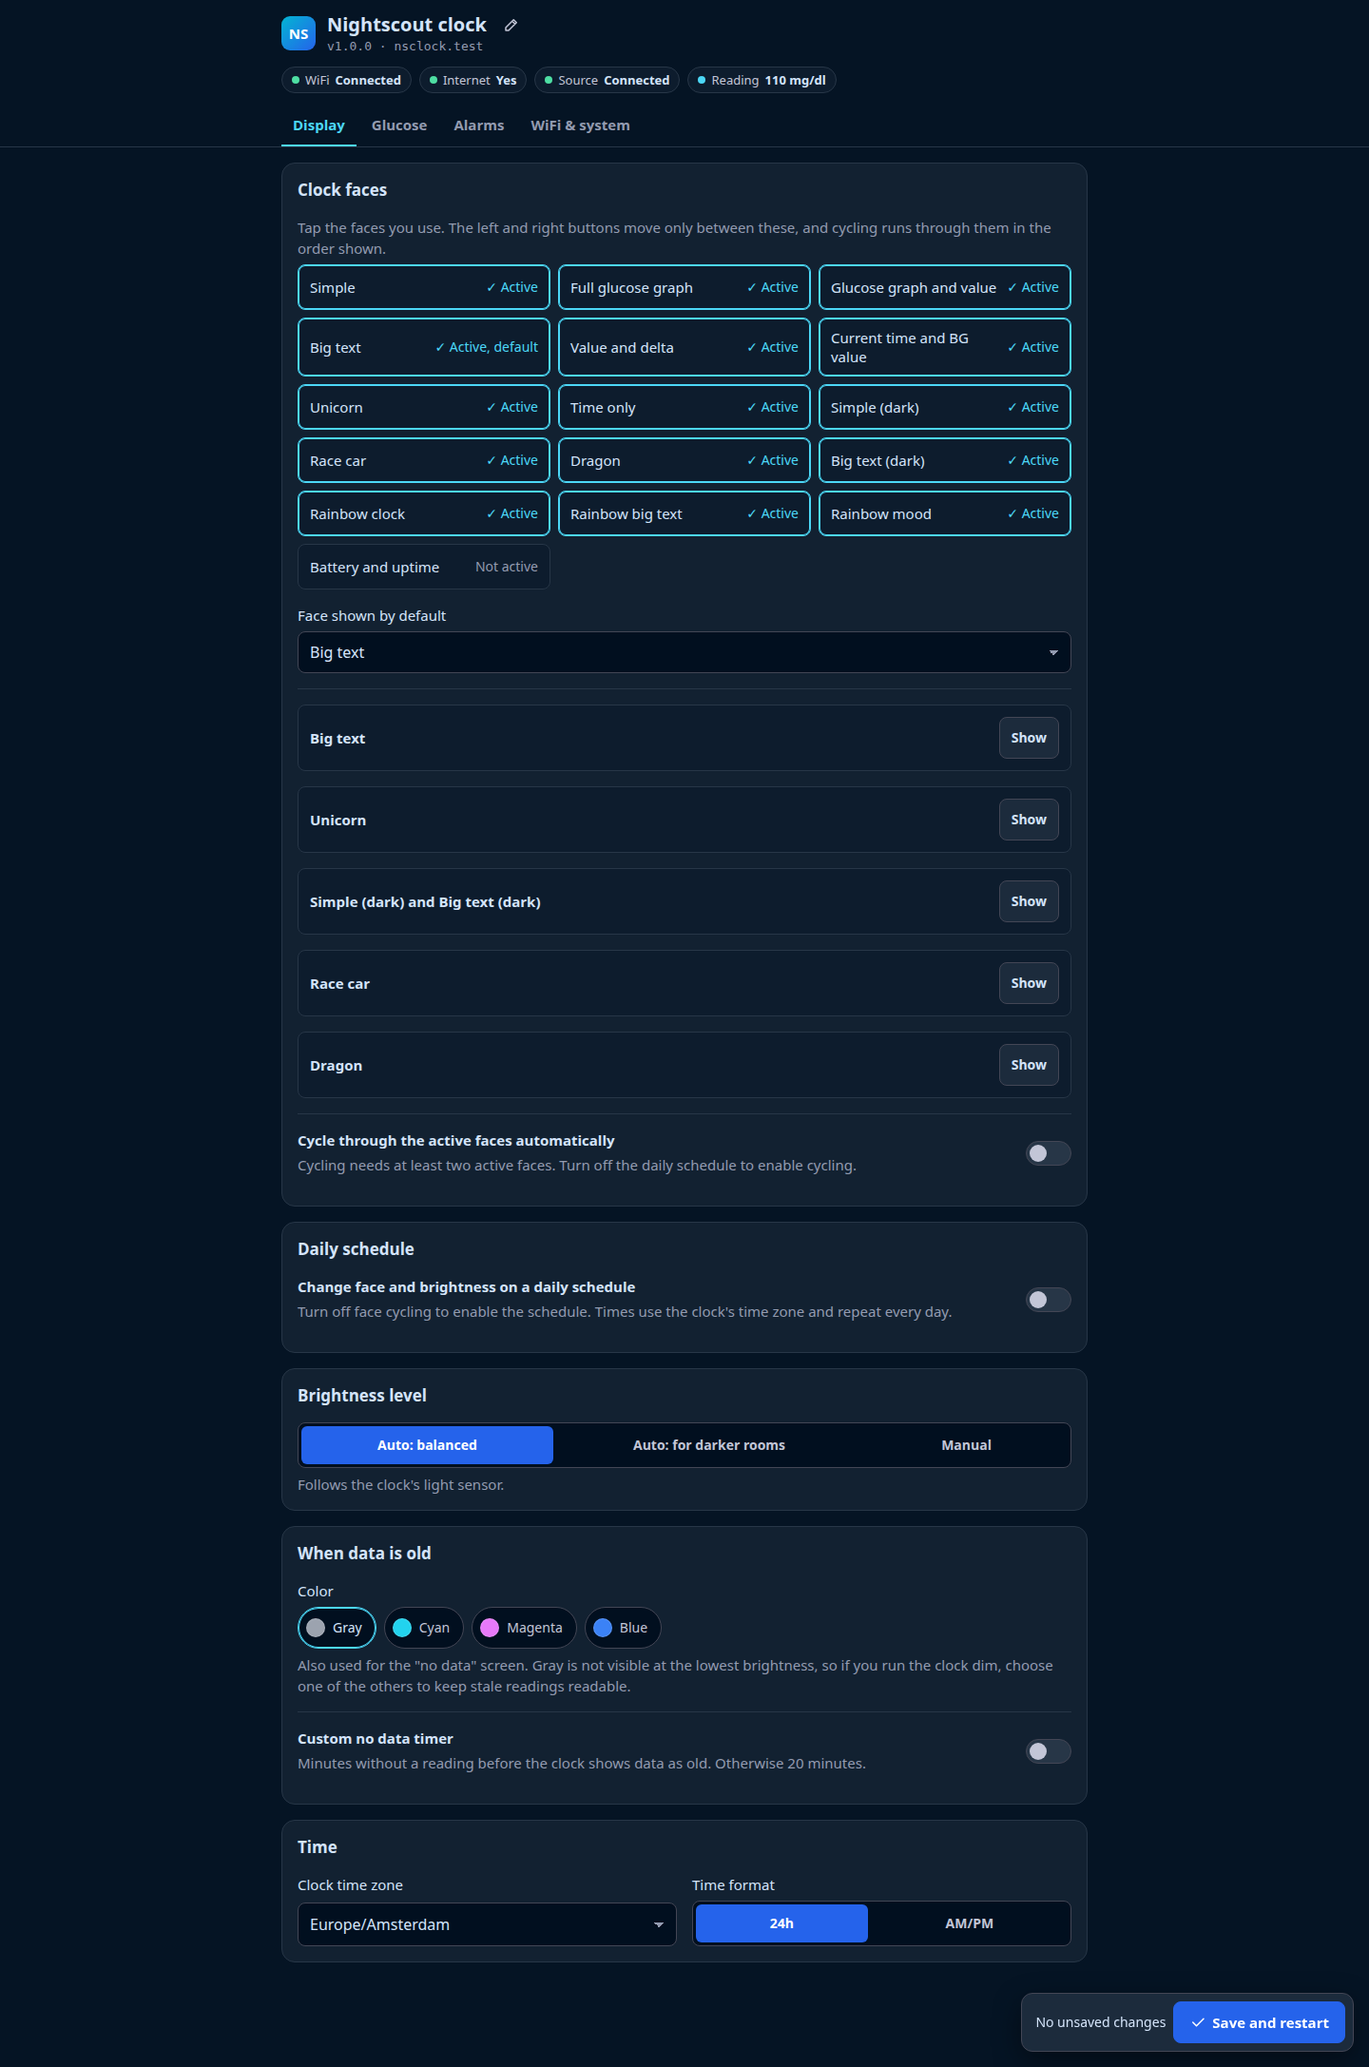
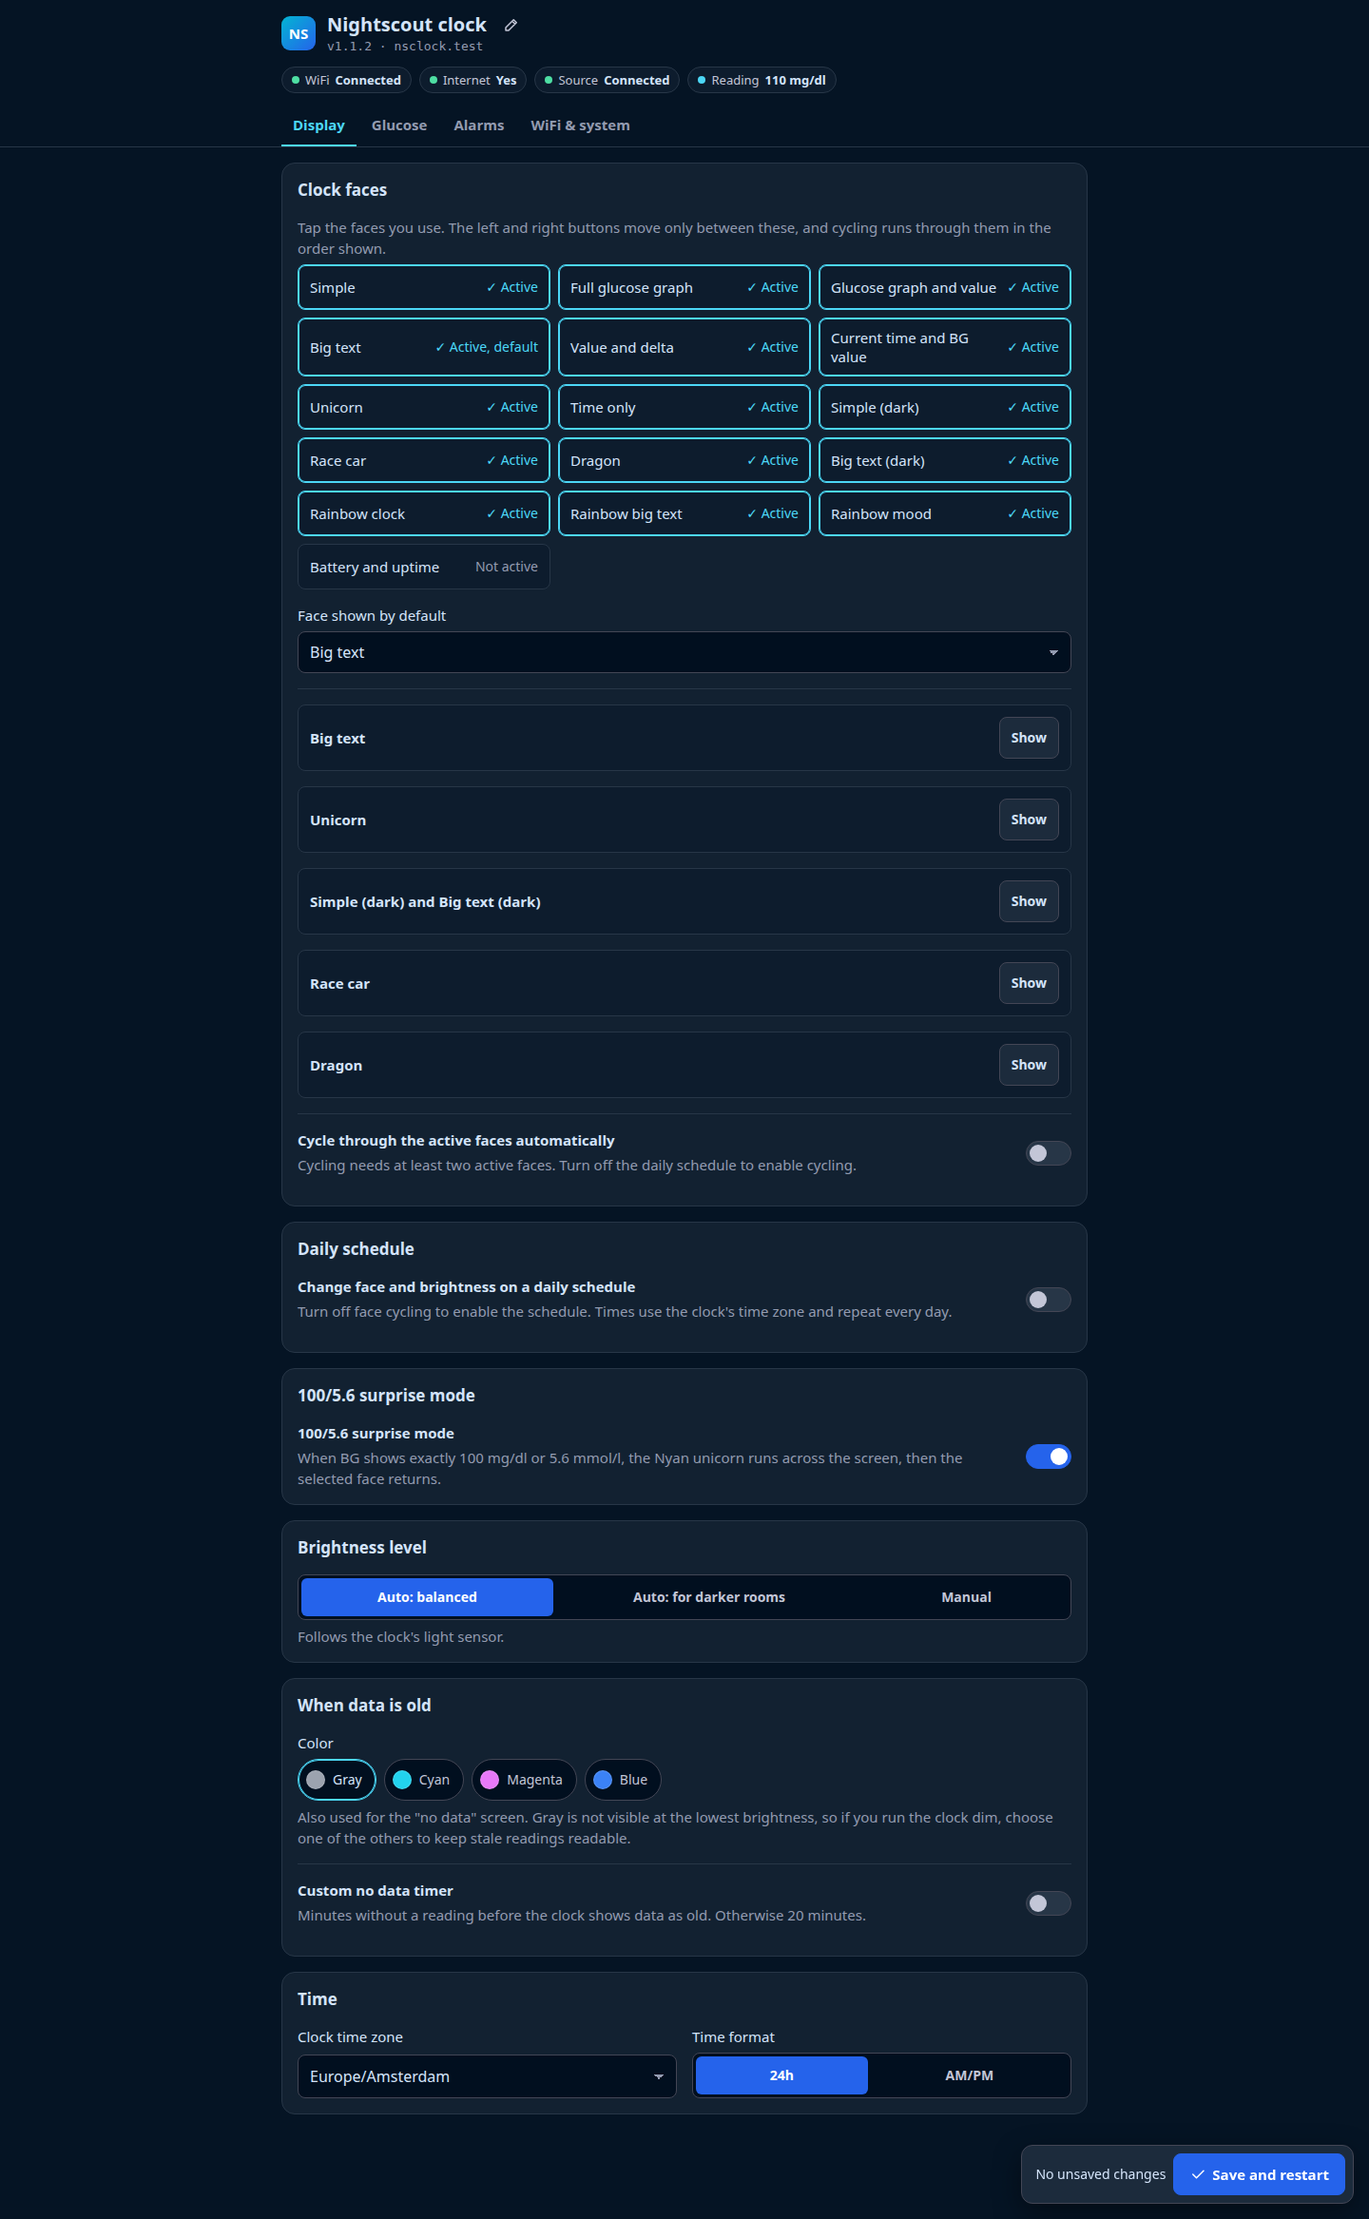
Add 100/5.6 surprise mode with a Nyan unicorn run (#222)
Add a Display tab toggle that celebrates a reading landing on a round
target. A new reading shown as exactly 100 mg/dL or 5.6 mmol/L makes a
Nyan unicorn run across the screen once, then the selected face returns.
The match follows the configured units, so in mmol/L it covers every
value displayed as 5.6. Each new matching reading runs it again.

The Nyan unicorn is not a clock face: the buttons, cycling, the schedule
and the face list never offer it, and the selected face stays current
throughout the run. Cycling and the schedule pause only for the run. The
run shows the sprite, its trail and the value without a trend arrow, and
the value uses the shared rainbow colors, including their low-brightness
colors.

New configurations start with the surprise_mode setting on. A saved
configuration without it stays off. The README features list and the
Display tab image cover the new card.

diff --git a/web/src/js/cards.js b/web/src/js/cards.js
@@ -270,7 +270,7 @@ function toast(message, kind = "ok", ms = 4500) {
  * @returns {HTMLElement}
  */
 function displayTab() {
-    return el("div.stack", facesCard(), faceScheduleCard(), brightnessCard(), oldDataCard(), timeCard())
+    return el("div.stack", facesCard(), faceScheduleCard(), surpriseModeCard(), brightnessCard(), oldDataCard(), timeCard())
 }
 
 /**
@@ -487,6 +487,14 @@ function faceScheduleCard() {
             "Add up to 8 different times. Each row applies its face and brightness until the next scheduled time, including overnight.")
     })
     return card("Daily schedule", null, el("div.stack", toggle, body), { id: "card_schedule" })
+}
+
+/** Surprise mode toggle: when on and BG is shown as exactly 100 or 5.6, the Nyan unicorn
+ * runs across the screen, then the selected face returns. */
+function surpriseModeCard() {
+    const toggle = toggleRow("surprise_mode", "100/5.6 surprise mode",
+        "When BG shows exactly 100 mg/dl or 5.6 mmol/l, the Nyan unicorn runs across the screen, then the selected face returns.")
+    return card("100/5.6 surprise mode", null, el("div.stack", toggle), { id: "card_surprise" })
 }
 
 /**

diff --git a/web/src/js/schema.js b/web/src/js/schema.js
@@ -494,6 +494,7 @@ function normalizeLoaded(c) {
     // never be seen and would be posted back on every save. The firmware drops such a row in silence, so leaving
     // it in the file only keeps a setting that never takes effect: repair it here, the way default_face is.
     out.face_schedule = out.face_schedule.filter(row => KEY_ITEMS.face_schedule(row))
+    out.surprise_mode = !!out.surprise_mode
     return out
 }
 

diff --git a/src/BGDisplayFaceNyanUnicorn.cpp b/src/BGDisplayFaceNyanUnicorn.cpp
@@ -1,0 +1,104 @@
+#include "BGDisplayFaceNyanUnicorn.h"
+#include "globals.h"
+
+// DisplayManager has no rgb565 helper, so pack locally.
+constexpr uint16_t rgb565(uint8_t r, uint8_t g, uint8_t b) {
+    return (uint16_t)(((r & 0xF8) << 8) | ((g & 0xFC) << 3) | (b >> 3));
+}
+
+namespace {
+int16_t nyanScrollX = -12;
+unsigned long nyanLastStepMs = 0, nyanPauseStartMs = 0;
+bool nyanIsPaused = false;
+
+// The unicorn scrolls in from off-screen; skip pixels outside the 32x8 panel
+// instead of relying on uint8_t wraparound in drawPixel.
+void nyanPixel(int16_t x, int16_t y, uint16_t color, bool updateMatrix) {
+    if (x < 0 || x > 31 || y < 0 || y > 7) return;
+    DisplayManager.drawPixel((uint8_t)x, (uint8_t)y, color, updateMatrix);
+}
+
+}
+
+void BGDisplayFaceNyanUnicorn::onActivate() const {
+    nyanScrollX = -12;
+    nyanLastStepMs = 0;
+    nyanPauseStartMs = 0;
+    nyanIsPaused = false;
+}
+
+bool BGDisplayFaceNyanUnicorn::needsFrequentRefresh() const { return true; }
+
+unsigned long BGDisplayFaceNyanUnicorn::getFrequentRefreshIntervalMs() const { return 35; }
+
+void BGDisplayFaceNyanUnicorn::drawUnicorn(int16_t x, int16_t y, uint8_t frame) const {
+    nyanPixel(x + 6, y + 0, rgb565(255, 215, 0), false);
+    nyanPixel(x + 5, y + 1, rgb565(255, 215, 0), false);
+    nyanPixel(x + 4, y + 1, rgb565(255, 20, 147), false);
+    nyanPixel(x + 3, y + 2, rgb565(255, 105, 180), false);
+    nyanPixel(x + 4, y + 2, COLOR_WHITE, false);
+    nyanPixel(x + 6, y + 2, COLOR_WHITE, false);
+    nyanPixel(x + 6, y + 3, rgb565(255, 182, 193), false);
+    nyanPixel(x + 5, y + 2, rgb565(0, 191, 255), false);
+    nyanPixel(x + 3, y + 3, COLOR_WHITE, false);
+    nyanPixel(x + 4, y + 3, COLOR_WHITE, false);
+    nyanPixel(x + 5, y + 3, COLOR_WHITE, false);
+    for (int8_t bx = 2; bx <= 5; bx++) {
+        nyanPixel(x + bx, y + 4, COLOR_WHITE, false);
+        nyanPixel(x + bx, y + 5, COLOR_WHITE, false);
+    }
+    uint16_t hoof = rgb565(255, 105, 180);
+    if (frame == 0) {
+        nyanPixel(x + 2, y + 6, COLOR_WHITE, false); nyanPixel(x + 1, y + 7, hoof, false);
+        nyanPixel(x + 5, y + 6, COLOR_WHITE, false); nyanPixel(x + 6, y + 7, hoof, false);
+    } else {
+        nyanPixel(x + 3, y + 6, COLOR_WHITE, false); nyanPixel(x + 2, y + 7, hoof, false);
+        nyanPixel(x + 4, y + 6, COLOR_WHITE, false); nyanPixel(x + 5, y + 7, hoof, false);
+    }
+}
+
+void BGDisplayFaceNyanUnicorn::drawNyanRainbow(int16_t startX, int16_t endX, uint8_t waveTick) const {
+    if (endX < 0 || startX > 31) return;
+    int16_t x0 = max((int16_t)0, startX), x1 = min((int16_t)31, endX);
+    const uint16_t nyan[5] = { rgb565(255, 0, 55), rgb565(255, 140, 0), rgb565(255, 235, 0), rgb565(0, 255, 60), rgb565(160, 40, 255) };
+    for (int16_t x = x0; x <= x1; x++) {
+        int seg = ((x / 2) + waveTick) % 2;
+        int yBase = (seg == 0) ? 1 : 2;
+        for (int b = 0; b < 5; b++) DisplayManager.drawPixel(x, yBase + b, nyan[b], false);
+        if ((x + waveTick) % 5 == 0) DisplayManager.drawPixel(x, (seg == 0 ? 7 : 0), COLOR_WHITE, false);
+    }
+}
+
+void BGDisplayFaceNyanUnicorn::showReadings(const std::list<GlucoseReading>& readings, bool dataIsOld) const {
+    unsigned long now = millis();
+    uint8_t leg = (now / 110) % 2, wave = (now / 110) % 4;
+    auto lastReading = readings.back();
+    String valStr = getPrintableReading(lastReading.sgv);
+    int valWidth = DisplayManager.getTextWidth(valStr.c_str(), 2);
+
+    if (nyanIsPaused) {
+        if (now - nyanPauseStartMs > 3500) nyanIsPaused = false;
+    } else if (now - nyanLastStepMs > 35) {
+        nyanScrollX++;
+        if (nyanScrollX == 24) { nyanIsPaused = true; nyanPauseStartMs = now; }
+        if (nyanScrollX > (32 + valWidth + 18)) nyanScrollX = -12;
+        nyanLastStepMs = now;
+    }
+
+    int16_t ux = nyanScrollX, tEnd = ux + 1, tStart = ux - 10, bgX = tStart - valWidth - 2;
+    drawNyanRainbow(tStart, tEnd, wave);
+    drawUnicorn(ux, 0, leg);
+
+    DisplayManager.setFont(FONT_TYPE::MEDIUM);
+    const uint8_t hueOffset = (now / 20) % 256;
+    const uint8_t textLength = valStr.length();
+    int16_t curX = bgX;
+    for (uint8_t i = 0; i < textLength; i++) {
+        char buf[2] = {valStr[i], '\0'};
+        const uint8_t hue = map(i, 0, max((int)textLength, 1), 0, 255) + hueOffset;
+        uint16_t col = dataIsOld ? getDataOldColor() : getRainbowColor(hue);
+        DisplayManager.setTextColor(col);
+        DisplayManager.printText(curX, 6, buf, TEXT_ALIGNMENT::LEFT, 2);
+        curX += DisplayManager.getTextWidth(buf, 2);
+    }
+}

diff --git a/src/BGDisplayManager.cpp b/src/BGDisplayManager.cpp
@@ -4,6 +4,7 @@
 #include <list>
 
 #include "BGSource.h"
+#include "BGDisplayValueText.h"
 #include "BGSourceManager.h"
 #include "DisplayManager.h"
 #include "ServerManager.h"
@@ -129,6 +130,7 @@ void BGDisplayManager_::setFaceByIndex(int index) {
 
     currentFaceIndex = index;
     currentFace = faces[currentFaceIndex].instance;
+    currentFace->onActivate();
     lastRefreshEpoch = 0;
     resetFaceCycleTimer();
     runRenderCycle(RenderReason::FACE_CHANGE, ServerManager.getTimezonedTime());
@@ -172,6 +174,11 @@ void BGDisplayManager_::updateFaceCycle() {
         return;
     }
 
+    // Surprise mode owns the face until the Nyan run finishes and the previous face is restored.
+    if (surpriseModeActive) {
+        return;
+    }
+
     if (MATRIX_OFF) {
         faceCycleTimerStarted = false;
         return;
@@ -191,6 +198,13 @@ void BGDisplayManager_::updateFaceCycle() {
     }
 }
 
+void BGDisplayManager_::updateSurpriseMode() {
+    // Let the Nyan run across once plus its pause, then restore the previous face.
+    if (!surpriseModeActive || millis() - surpriseStartMs < 8000) return;
+    surpriseModeActive = false;
+    setFaceByIndex(currentFaceIndex);
+}
+
 void BGDisplayManager_::tick() {
     const bool brightnessOverlayActive = DisplayManager.isBrightnessOverlayActive();
     if (brightnessOverlayActive) {
@@ -207,7 +221,8 @@ void BGDisplayManager_::tick() {
 
     updateFaceSchedule();
     updateFaceCycle();
-    if (currentFace->needsFrequentRefresh()) {
+    updateSurpriseMode();
+    if (!MATRIX_OFF && currentFace->needsFrequentRefresh()) {
         unsigned long now = millis();
         if (now - lastFrequentRefreshMillis >= currentFace->getFrequentRefreshIntervalMs()) {
             lastFrequentRefreshMillis = now;
@@ -264,6 +279,11 @@ void BGDisplayManager_::configureFaceSchedule() {
 // at its time, even a single row. No known time means no row applies.
 void BGDisplayManager_::updateFaceSchedule() {
     if (!faceScheduleActive) {
+        return;
+    }
+
+    // Surprise mode owns the face until the Nyan run finishes and the previous face is restored.
+    if (surpriseModeActive) {
         return;
     }
 
@@ -370,11 +390,28 @@ void BGDisplayManager_::maybeRrefreshScreen(bool force) {
 void BGDisplayManager_::showData(std::list<GlucoseReading> glucoseReadings) {
     if (glucoseReadings.size() == 0) {
         displayedReadings.clear();
+        if (surpriseModeActive) {
+            surpriseModeActive = false;
+            setFaceByIndex(currentFaceIndex);
+        }
         runRenderCycle(RenderReason::NEW_DATA, ServerManager.getTimezonedTime());
         return;
     }
 
     displayedReadings = glucoseReadings;
+
+    // Surprise mode: a new reading shown as exactly 100 or 5.6 makes the Nyan run across once, then the
+    // selected face returns. Another such reading during the run restarts it. The Nyan is not one of
+    // the registered faces, so currentFaceIndex stays on the selected face throughout.
+    if (SettingsManager.settings.surprise_mode &&
+        isSurpriseReading(
+            glucoseReadings.back().sgv, SettingsManager.settings.bg_units != BG_UNIT::MGDL)) {
+        surpriseModeActive = true;
+        surpriseStartMs = millis();
+        currentFace = &nyanUnicornFace;
+        currentFace->onActivate();
+    }
+
     runRenderCycle(RenderReason::NEW_DATA, ServerManager.getTimezonedTime());
 }
 

diff --git a/src/BGDisplayManager.h b/src/BGDisplayManager.h
@@ -15,6 +15,7 @@
 #include "BGDisplayFaceDragon.h"
 #include "BGDisplayFaceGraph.h"
 #include "BGDisplayFaceGraphAndBG.h"
+#include "BGDisplayFaceNyanUnicorn.h"
 #include "BGDisplayFaceRaceCar.h"
 #include "BGDisplayFaceRainbowClock.h"
 #include "BGDisplayFaceRainbowMood.h"
@@ -102,12 +103,18 @@ private:
     int appliedScheduleEntry = -1;
     int lastScheduleMinuteOfDay = -1;
     bool brightnessOverlayWasActive = false;
+    // Surprise mode: when enabled and a new reading is shown as exactly 100 or 5.6, the Nyan unicorn
+    // runs across once, then the selected face returns. It cannot be selected, so it is not in `faces`.
+    BGDisplayFaceNyanUnicorn nyanUnicornFace;
+    bool surpriseModeActive = false;
+    unsigned long surpriseStartMs = 0;
 
     bool drawAnimationFrame(bool dataIsOld, bool redraw);
     int findFaceIndex(const String& id) const;
     void setFaceByIndex(int index);
     void configureActiveFaces();
     void updateFaceCycle();
+    void updateSurpriseMode();
     void configureFaceSchedule();
     void updateFaceSchedule();
     void applyScheduleEntry(const FaceScheduleEntry& entry);

diff --git a/test/test_glucose_display.cpp b/test/test_glucose_display.cpp
@@ -281,9 +281,20 @@ static void fewReadingsCompareAgainstTheWindowExtreme() {
     assert(mmolDiff(2 * MINUTE, {116, 117, 117}) == "+0.1");
 }
 
+static void surpriseReadingMatchesWhatIsShown() {
+    for (int sgv = 1; sgv <= 400; sgv++) {
+        assert(isSurpriseReading(sgv, false) == (formatReading(sgv, false) == "100"));
+        assert(isSurpriseReading(sgv, true) == (formatReading(sgv, true) == "5.6"));
+    }
+    assert(isSurpriseReading(100, true) && isSurpriseReading(101, true));
+    assert(!isSurpriseReading(99, true) && !isSurpriseReading(102, true));
+    assert(!isSurpriseReading(101, false));
+}
+
 int main() {
     mgdlReadingIsShownAsIs();
     mmolReadingIsRoundedToOneDecimal();
+    surpriseReadingMatchesWhatIsShown();
     everyMmolReadingRoundsToTheNearestTenth();
     equalNumbersOnScreenHaveAZeroDelta();
     consecutiveScreensAddUp();

diff --git a/src/SettingsManager.cpp b/src/SettingsManager.cpp
@@ -165,6 +165,7 @@ bool SettingsManager_::loadSettingsFromFile() {
 
     settings.face_schedule_enabled = (*doc)["face_schedule_enabled"] | false;
     settings.face_schedule = readFaceSchedule((*doc)["face_schedule"]);
+    settings.surprise_mode = (*doc)["surprise_mode"] | false;
 
     String data_source = (*doc)["data_source"].as<String>();
     if (data_source == "nightscout") {
@@ -367,6 +368,7 @@ bool SettingsManager_::saveSettingsToFile() {
     }
     (*doc)["face_schedule_enabled"] = settings.face_schedule_enabled;
     writeFaceSchedule(*doc, "face_schedule", settings.face_schedule);
+    (*doc)["surprise_mode"] = settings.surprise_mode;
 
     String data_source = "no_source";
     switch (settings.bg_source) {

diff --git a/src/BGDisplayFaceNyanUnicorn.h b/src/BGDisplayFaceNyanUnicorn.h
@@ -1,0 +1,18 @@
+#ifndef BGDISPLAYFACENYANUNICORN_H
+#define BGDISPLAYFACENYANUNICORN_H
+
+#include "BGDisplayFaceTextBase.h"
+
+class BGDisplayFaceNyanUnicorn : public BGDisplayFaceTextBase {
+public:
+    void showReadings(const std::list<GlucoseReading>& readings, bool dataIsOld = false) const override;
+    bool needsFrequentRefresh() const override;
+    unsigned long getFrequentRefreshIntervalMs() const override;
+    void onActivate() const override;
+
+private:
+    void drawUnicorn(int16_t x, int16_t y, uint8_t frame) const;
+    void drawNyanRainbow(int16_t startX, int16_t endX, uint8_t waveTick) const;
+};
+
+#endif

diff --git a/src/BGDisplayValueText.h b/src/BGDisplayValueText.h
@@ -32,6 +32,11 @@ inline std::string formatReading(int sgv, bool mmol) {
     return formatDisplayTenths(toDisplayTenths(sgv, mmol), mmol);
 }
 
+// Surprise mode celebrates a reading shown as exactly 100 mg/dL or 5.6 mmol/L.
+inline bool isSurpriseReading(int sgv, bool mmol) {
+    return toDisplayTenths(sgv, mmol) == (mmol ? 56 : 100);
+}
+
 // Older readings than this are not compared directly with the last reading.
 constexpr unsigned long long DIFF_WINDOW_SECONDS = 6 * 60 + 30;
 // A delta estimated across a longer gap is scaled to this period.

diff --git a/src/Settings.h b/src/Settings.h
@@ -72,6 +72,7 @@ public:
     int face_cycle_interval_seconds = 60;
     bool face_schedule_enabled = false;
     std::vector<FaceScheduleEntry> face_schedule;
+    bool surprise_mode = false;
     BG_SOURCE bg_source;
     String dexcom_username;
     String dexcom_password;

diff --git a/README.md b/README.md
@@ -192,6 +192,7 @@ High, low, and urgent-low alarms each have their own threshold, snooze duration,
   - Rainbow big text: BIG DIGITS in a moving rainbow
   - Rainbow mood: a smiley whose expression follows the glucose range, beside the value in rainbow digits
   - Battery and uptime: battery level and time since start, off by default
+- 100/5.6 surprise mode: when a new reading shows exactly 100 mg/dl or 5.6 mmol/l, a Nyan unicorn runs across the screen once, then the selected face returns. It is on by default in new configurations; turn it off on the Display tab of the Web UI
 - Configurable color for old readings and no-data screens: gray (default), cyan, magenta, or blue. Choose it on the Display tab of the Web UI; the alternatives help keep stale readings visible at low brightness
 - Smart data and screen update timings: read data once it appears, refresh screen when needed
 - API data source. The clock has a simple Nightscout-like API which can receive glucose values from an external source. The main purpose of this feature is the ability to test the clock during the clockfaces development. In order to activate this feature, select the API data source within the clock's Web UI. Here are the endpoints:
